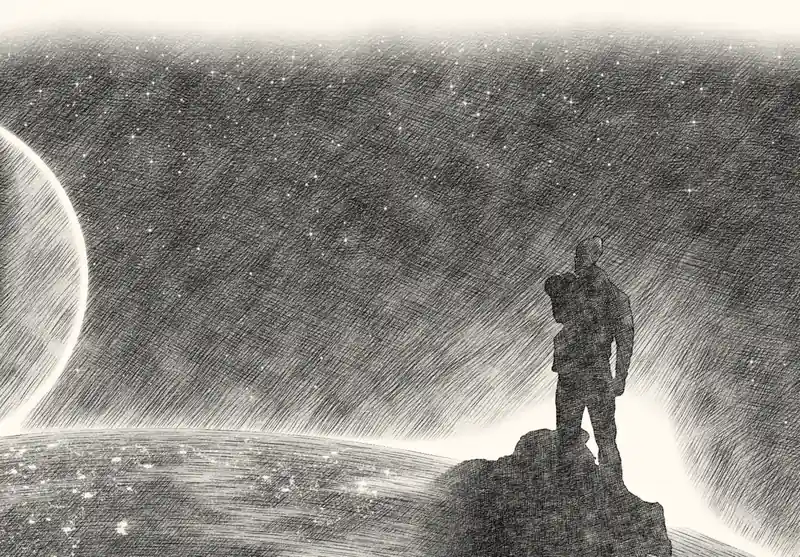
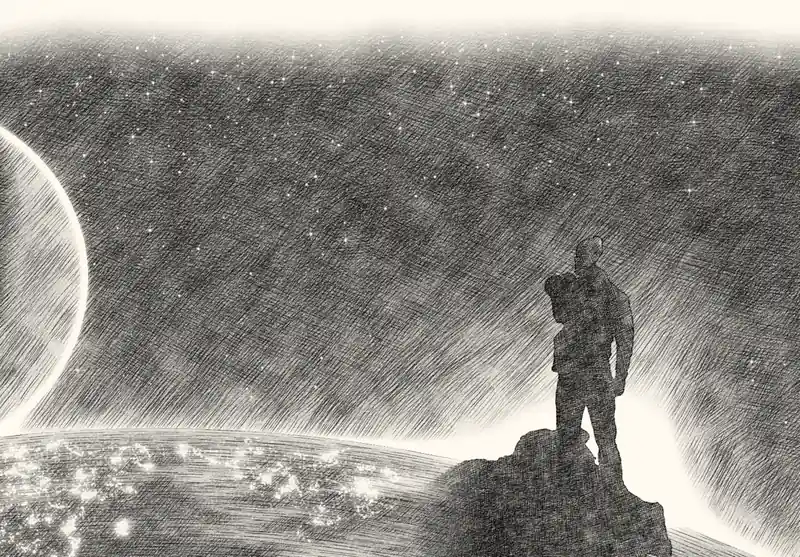
Brighten the Moon's lights in the footer drawing
They're much closer than the Earth's, but looked dimmer on the paler
lunar ground. They're now bigger and glow.

Session: claude://claude.ai/epitaxy/local_8bf3452f-ca40-4c1d-a549-1e6323dcae47

Changed region(s): [[0.0, 0.7935, 0.2188, 1.0], [0.2188, 0.7935, 0.5, 0.9767]]

diff --git a/ausschnitt.html b/ausschnitt.html
@@ -169,8 +169,8 @@
       <div class="frame">
         <div class="canvas">
           <picture>
-            <source media="(max-width: 767.98px)" srcset="/images/footer/sky-phone.webp?v=8da8b12a">
-            <img src="/images/footer/sky-1600.webp?v=1f757129" srcset="/images/footer/sky-1200.webp?v=d42155e7 1200w, /images/footer/sky-1600.webp?v=1f757129 1600w" sizes="100vw" width="2400" height="1080" loading="lazy" decoding="async" alt="Bleistiftzeichnung: Ein Mann steht auf einem Gipfel über der Erde und zeigt auf ein Sternbild">
+            <source media="(max-width: 767.98px)" srcset="/images/footer/sky-phone.webp?v=66136423">
+            <img src="/images/footer/sky-1600.webp?v=6dc7cc9a" srcset="/images/footer/sky-1200.webp?v=71477d36 1200w, /images/footer/sky-1600.webp?v=6dc7cc9a 1600w" sizes="100vw" width="2400" height="1080" loading="lazy" decoding="async" alt="Bleistiftzeichnung: Ein Mann steht auf einem Gipfel über der Erde und zeigt auf ein Sternbild">
           </picture>
           <svg viewBox="0 0 2400 1080" aria-label="Fußzeile">
             <defs>

diff --git a/datenschutzerklaerung.html b/datenschutzerklaerung.html
@@ -125,8 +125,8 @@
       <div class="frame">
         <div class="canvas">
           <picture>
-            <source media="(max-width: 767.98px)" srcset="/images/footer/sky-phone.webp?v=8da8b12a">
-            <img src="/images/footer/sky-1600.webp?v=1f757129" srcset="/images/footer/sky-1200.webp?v=d42155e7 1200w, /images/footer/sky-1600.webp?v=1f757129 1600w" sizes="100vw" width="2400" height="1080" loading="lazy" decoding="async" alt="Bleistiftzeichnung: Ein Mann steht auf einem Gipfel über der Erde und zeigt auf ein Sternbild">
+            <source media="(max-width: 767.98px)" srcset="/images/footer/sky-phone.webp?v=66136423">
+            <img src="/images/footer/sky-1600.webp?v=6dc7cc9a" srcset="/images/footer/sky-1200.webp?v=71477d36 1200w, /images/footer/sky-1600.webp?v=6dc7cc9a 1600w" sizes="100vw" width="2400" height="1080" loading="lazy" decoding="async" alt="Bleistiftzeichnung: Ein Mann steht auf einem Gipfel über der Erde und zeigt auf ein Sternbild">
           </picture>
           <svg viewBox="0 0 2400 1080" aria-label="Fußzeile">
             <defs>

diff --git a/errata.html b/errata.html
@@ -388,8 +388,8 @@
       <div class="frame">
         <div class="canvas">
           <picture>
-            <source media="(max-width: 767.98px)" srcset="/images/footer/sky-phone.webp?v=8da8b12a">
-            <img src="/images/footer/sky-1600.webp?v=1f757129" srcset="/images/footer/sky-1200.webp?v=d42155e7 1200w, /images/footer/sky-1600.webp?v=1f757129 1600w" sizes="100vw" width="2400" height="1080" loading="lazy" decoding="async" alt="Bleistiftzeichnung: Ein Mann steht auf einem Gipfel über der Erde und zeigt auf ein Sternbild">
+            <source media="(max-width: 767.98px)" srcset="/images/footer/sky-phone.webp?v=66136423">
+            <img src="/images/footer/sky-1600.webp?v=6dc7cc9a" srcset="/images/footer/sky-1200.webp?v=71477d36 1200w, /images/footer/sky-1600.webp?v=6dc7cc9a 1600w" sizes="100vw" width="2400" height="1080" loading="lazy" decoding="async" alt="Bleistiftzeichnung: Ein Mann steht auf einem Gipfel über der Erde und zeigt auf ein Sternbild">
           </picture>
           <svg viewBox="0 0 2400 1080" aria-label="Fußzeile">
             <defs>

diff --git a/glossar.html b/glossar.html
@@ -776,8 +776,8 @@
       <div class="frame">
         <div class="canvas">
           <picture>
-            <source media="(max-width: 767.98px)" srcset="/images/footer/sky-phone.webp?v=8da8b12a">
-            <img src="/images/footer/sky-1600.webp?v=1f757129" srcset="/images/footer/sky-1200.webp?v=d42155e7 1200w, /images/footer/sky-1600.webp?v=1f757129 1600w" sizes="100vw" width="2400" height="1080" loading="lazy" decoding="async" alt="Bleistiftzeichnung: Ein Mann steht auf einem Gipfel über der Erde und zeigt auf ein Sternbild">
+            <source media="(max-width: 767.98px)" srcset="/images/footer/sky-phone.webp?v=66136423">
+            <img src="/images/footer/sky-1600.webp?v=6dc7cc9a" srcset="/images/footer/sky-1200.webp?v=71477d36 1200w, /images/footer/sky-1600.webp?v=6dc7cc9a 1600w" sizes="100vw" width="2400" height="1080" loading="lazy" decoding="async" alt="Bleistiftzeichnung: Ein Mann steht auf einem Gipfel über der Erde und zeigt auf ein Sternbild">
           </picture>
           <svg viewBox="0 0 2400 1080" aria-label="Fußzeile">
             <defs>

diff --git a/index.html b/index.html
@@ -180,8 +180,8 @@
       <div class="frame">
         <div class="canvas">
           <picture>
-            <source media="(max-width: 767.98px)" srcset="/images/footer/sky-phone.webp?v=8da8b12a">
-            <img src="/images/footer/sky-1600.webp?v=1f757129" srcset="/images/footer/sky-1200.webp?v=d42155e7 1200w, /images/footer/sky-1600.webp?v=1f757129 1600w" sizes="100vw" width="2400" height="1080" loading="lazy" decoding="async" alt="Bleistiftzeichnung: Ein Mann steht auf einem Gipfel über der Erde und zeigt auf ein Sternbild">
+            <source media="(max-width: 767.98px)" srcset="/images/footer/sky-phone.webp?v=66136423">
+            <img src="/images/footer/sky-1600.webp?v=6dc7cc9a" srcset="/images/footer/sky-1200.webp?v=71477d36 1200w, /images/footer/sky-1600.webp?v=6dc7cc9a 1600w" sizes="100vw" width="2400" height="1080" loading="lazy" decoding="async" alt="Bleistiftzeichnung: Ein Mann steht auf einem Gipfel über der Erde und zeigt auf ein Sternbild">
           </picture>
           <svg viewBox="0 0 2400 1080" aria-label="Fußzeile">
             <defs>

diff --git a/interview.html b/interview.html
@@ -108,8 +108,8 @@
       <div class="frame">
         <div class="canvas">
           <picture>
-            <source media="(max-width: 767.98px)" srcset="/images/footer/sky-phone.webp?v=8da8b12a">
-            <img src="/images/footer/sky-1600.webp?v=1f757129" srcset="/images/footer/sky-1200.webp?v=d42155e7 1200w, /images/footer/sky-1600.webp?v=1f757129 1600w" sizes="100vw" width="2400" height="1080" loading="lazy" decoding="async" alt="Bleistiftzeichnung: Ein Mann steht auf einem Gipfel über der Erde und zeigt auf ein Sternbild">
+            <source media="(max-width: 767.98px)" srcset="/images/footer/sky-phone.webp?v=66136423">
+            <img src="/images/footer/sky-1600.webp?v=6dc7cc9a" srcset="/images/footer/sky-1200.webp?v=71477d36 1200w, /images/footer/sky-1600.webp?v=6dc7cc9a 1600w" sizes="100vw" width="2400" height="1080" loading="lazy" decoding="async" alt="Bleistiftzeichnung: Ein Mann steht auf einem Gipfel über der Erde und zeigt auf ein Sternbild">
           </picture>
           <svg viewBox="0 0 2400 1080" aria-label="Fußzeile">
             <defs>

diff --git a/kaufen.html b/kaufen.html
@@ -114,8 +114,8 @@
       <div class="frame">
         <div class="canvas">
           <picture>
-            <source media="(max-width: 767.98px)" srcset="/images/footer/sky-phone.webp?v=8da8b12a">
-            <img src="/images/footer/sky-1600.webp?v=1f757129" srcset="/images/footer/sky-1200.webp?v=d42155e7 1200w, /images/footer/sky-1600.webp?v=1f757129 1600w" sizes="100vw" width="2400" height="1080" loading="lazy" decoding="async" alt="Bleistiftzeichnung: Ein Mann steht auf einem Gipfel über der Erde und zeigt auf ein Sternbild">
+            <source media="(max-width: 767.98px)" srcset="/images/footer/sky-phone.webp?v=66136423">
+            <img src="/images/footer/sky-1600.webp?v=6dc7cc9a" srcset="/images/footer/sky-1200.webp?v=71477d36 1200w, /images/footer/sky-1600.webp?v=6dc7cc9a 1600w" sizes="100vw" width="2400" height="1080" loading="lazy" decoding="async" alt="Bleistiftzeichnung: Ein Mann steht auf einem Gipfel über der Erde und zeigt auf ein Sternbild">
           </picture>
           <svg viewBox="0 0 2400 1080" aria-label="Fußzeile">
             <defs>

diff --git a/leserstimmen.html b/leserstimmen.html
@@ -166,8 +166,8 @@
       <div class="frame">
         <div class="canvas">
           <picture>
-            <source media="(max-width: 767.98px)" srcset="/images/footer/sky-phone.webp?v=8da8b12a">
-            <img src="/images/footer/sky-1600.webp?v=1f757129" srcset="/images/footer/sky-1200.webp?v=d42155e7 1200w, /images/footer/sky-1600.webp?v=1f757129 1600w" sizes="100vw" width="2400" height="1080" loading="lazy" decoding="async" alt="Bleistiftzeichnung: Ein Mann steht auf einem Gipfel über der Erde und zeigt auf ein Sternbild">
+            <source media="(max-width: 767.98px)" srcset="/images/footer/sky-phone.webp?v=66136423">
+            <img src="/images/footer/sky-1600.webp?v=6dc7cc9a" srcset="/images/footer/sky-1200.webp?v=71477d36 1200w, /images/footer/sky-1600.webp?v=6dc7cc9a 1600w" sizes="100vw" width="2400" height="1080" loading="lazy" decoding="async" alt="Bleistiftzeichnung: Ein Mann steht auf einem Gipfel über der Erde und zeigt auf ein Sternbild">
           </picture>
           <svg viewBox="0 0 2400 1080" aria-label="Fußzeile">
             <defs>

diff --git a/mehr.html b/mehr.html
@@ -397,8 +397,8 @@
       <div class="frame">
         <div class="canvas">
           <picture>
-            <source media="(max-width: 767.98px)" srcset="/images/footer/sky-phone.webp?v=8da8b12a">
-            <img src="/images/footer/sky-1600.webp?v=1f757129" srcset="/images/footer/sky-1200.webp?v=d42155e7 1200w, /images/footer/sky-1600.webp?v=1f757129 1600w" sizes="100vw" width="2400" height="1080" loading="lazy" decoding="async" alt="Bleistiftzeichnung: Ein Mann steht auf einem Gipfel über der Erde und zeigt auf ein Sternbild">
+            <source media="(max-width: 767.98px)" srcset="/images/footer/sky-phone.webp?v=66136423">
+            <img src="/images/footer/sky-1600.webp?v=6dc7cc9a" srcset="/images/footer/sky-1200.webp?v=71477d36 1200w, /images/footer/sky-1600.webp?v=6dc7cc9a 1600w" sizes="100vw" width="2400" height="1080" loading="lazy" decoding="async" alt="Bleistiftzeichnung: Ein Mann steht auf einem Gipfel über der Erde und zeigt auf ein Sternbild">
           </picture>
           <svg viewBox="0 0 2400 1080" aria-label="Fußzeile">
             <defs>

diff --git a/pressestimmen.html b/pressestimmen.html
@@ -206,8 +206,8 @@
       <div class="frame">
         <div class="canvas">
           <picture>
-            <source media="(max-width: 767.98px)" srcset="/images/footer/sky-phone.webp?v=8da8b12a">
-            <img src="/images/footer/sky-1600.webp?v=1f757129" srcset="/images/footer/sky-1200.webp?v=d42155e7 1200w, /images/footer/sky-1600.webp?v=1f757129 1600w" sizes="100vw" width="2400" height="1080" loading="lazy" decoding="async" alt="Bleistiftzeichnung: Ein Mann steht auf einem Gipfel über der Erde und zeigt auf ein Sternbild">
+            <source media="(max-width: 767.98px)" srcset="/images/footer/sky-phone.webp?v=66136423">
+            <img src="/images/footer/sky-1600.webp?v=6dc7cc9a" srcset="/images/footer/sky-1200.webp?v=71477d36 1200w, /images/footer/sky-1600.webp?v=6dc7cc9a 1600w" sizes="100vw" width="2400" height="1080" loading="lazy" decoding="async" alt="Bleistiftzeichnung: Ein Mann steht auf einem Gipfel über der Erde und zeigt auf ein Sternbild">
           </picture>
           <svg viewBox="0 0 2400 1080" aria-label="Fußzeile">
             <defs>

diff --git a/sokrates.html b/sokrates.html
@@ -108,8 +108,8 @@
       <div class="frame">
         <div class="canvas">
           <picture>
-            <source media="(max-width: 767.98px)" srcset="/images/footer/sky-phone.webp?v=8da8b12a">
-            <img src="/images/footer/sky-1600.webp?v=1f757129" srcset="/images/footer/sky-1200.webp?v=d42155e7 1200w, /images/footer/sky-1600.webp?v=1f757129 1600w" sizes="100vw" width="2400" height="1080" loading="lazy" decoding="async" alt="Bleistiftzeichnung: Ein Mann steht auf einem Gipfel über der Erde und zeigt auf ein Sternbild">
+            <source media="(max-width: 767.98px)" srcset="/images/footer/sky-phone.webp?v=66136423">
+            <img src="/images/footer/sky-1600.webp?v=6dc7cc9a" srcset="/images/footer/sky-1200.webp?v=71477d36 1200w, /images/footer/sky-1600.webp?v=6dc7cc9a 1600w" sizes="100vw" width="2400" height="1080" loading="lazy" decoding="async" alt="Bleistiftzeichnung: Ein Mann steht auf einem Gipfel über der Erde und zeigt auf ein Sternbild">
           </picture>
           <svg viewBox="0 0 2400 1080" aria-label="Fußzeile">
             <defs>

diff --git a/wilhelm-busch.html b/wilhelm-busch.html
@@ -116,8 +116,8 @@
       <div class="frame">
         <div class="canvas">
           <picture>
-            <source media="(max-width: 767.98px)" srcset="/images/footer/sky-phone.webp?v=8da8b12a">
-            <img src="/images/footer/sky-1600.webp?v=1f757129" srcset="/images/footer/sky-1200.webp?v=d42155e7 1200w, /images/footer/sky-1600.webp?v=1f757129 1600w" sizes="100vw" width="2400" height="1080" loading="lazy" decoding="async" alt="Bleistiftzeichnung: Ein Mann steht auf einem Gipfel über der Erde und zeigt auf ein Sternbild">
+            <source media="(max-width: 767.98px)" srcset="/images/footer/sky-phone.webp?v=66136423">
+            <img src="/images/footer/sky-1600.webp?v=6dc7cc9a" srcset="/images/footer/sky-1200.webp?v=71477d36 1200w, /images/footer/sky-1600.webp?v=6dc7cc9a 1600w" sizes="100vw" width="2400" height="1080" loading="lazy" decoding="async" alt="Bleistiftzeichnung: Ein Mann steht auf einem Gipfel über der Erde und zeigt auf ein Sternbild">
           </picture>
           <svg viewBox="0 0 2400 1080" aria-label="Fußzeile">
             <defs>
